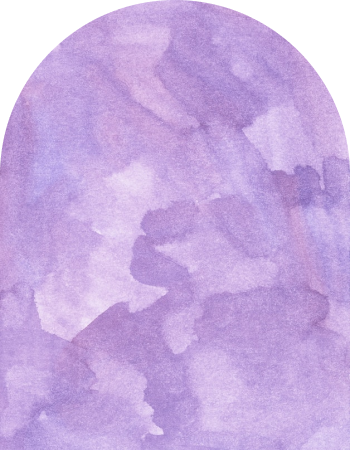
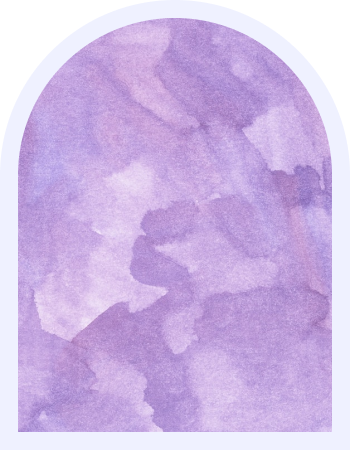
2022-12-01

Changed region(s): [[0.0, 0.0, 1.0, 1.0]]

diff --git a/assets/css/main.css b/assets/css/main.css
@@ -44,16 +44,18 @@
 /* about */
 #section__02 {
     padding-top: 245px;
+    width: 100%;
+    height: 2100px;
 }
 
 .title__section02 {
-    display: flex;
     width: 70%;
 }
 
 .text__box {
     width: 60%;
     padding-left: 40px;
+    padding-bottom: 30px;
 }
 
 .title__section02 .text__box {
@@ -79,31 +81,121 @@
 
 .about__arched {
     position: absolute;
-    top: -350px;
+    top: -320px;
     right: 100px;
+    z-index: 3;
+
 }
 
-.about__arched img {
+.about__arched>img {
     width: 350px;
     height: 450px;
 }
 
 .about__box {
     position: absolute;
+    top: 20px;
+    right: 0;
+    z-index: 2;
 }
 
-.about__box img {
+.about__box>img {
     width: 950px;
     height: 650px;
 }
 
 .about__me {
     position: absolute;
+    width: 750px;
+    height: 950px;
+
+    z-index: 4;
+    top: 480px;
+    right: 520px;
+}
+
+.about__me>img {
     width: 700px;
     height: 950px;
 }
 
-.about__me img {
-    width: 700px;
+.about__me .about__desc {
+    padding-top: 30px;
+    word-break: keep-all;
+    line-height: 26px;
+    color: var(--font-big-color);
+}
+
+.about__back {
+    float: right;
+    margin-top: 230px;
+    width: 1410px;
+    height: 1020px;
+    background-color: #e0e4ff;
+}
+
+/* cat */
+#section__03 {
+    padding-top: 230px;
+
+    width: 100%;
+    height: 2020px;
+}
+
+#section__03 .text__box {
+    width: 60%;
+    font-family: var(--font-big-ligth);
+    font-size: 5rem;
+    white-space: nowrap;
+    text-transform: uppercase;
+    color: var(--font-big-color);
+}
+
+#section__03 .text__box .bottom em {
+    font-family: var(--font-small);
+    font-size: 18px;
+}
+
+.cat__side {
+    position: relative;
+
+}
+
+.cat__img {
+    position: absolute;
+    top: 10px;
+    right: 0;
+    z-index: 3;
+}
+
+.cat__img>img {
+    width: 1000px;
+
+}
+
+.cat__back {
+    position: absolute;
+    top: 290px;
+    right: 0;
+}
+
+.cat__back>img {
+    width: 1335px;
+
+}
+
+.about__cat {
+    width: 1400px;
     height: 950px;
+    background-color: #e0e4ff;
+    margin-left: 30px;
+    margin-top: 170px;
+
+    padding-top: 700px;
+    padding-left: 170px;
+}
+
+.about__cat .cat__desc {
+    width: 60%;
+    color: var(--font-big-color);
 }

diff --git a/index.html b/index.html
@@ -51,7 +51,28 @@
                         빠지게 되었습니다. 물론 제 생각만큼 쉬운 길은 아니겠지만, 더더욱 성장하며 개발자 박선혜가 되겠습니다.
                     </div>
                 </span>
-                <span class="about__back"></span>
+                <div class="about__back"></div>
+            </div>
+        </section>
+        <section id="section__03">
+            <div class="text__box">
+                <h2 class="top">my lovely</h2>
+                <h2 class="bottom">cat<em>나의 평생 친구입니다.</em></h2>
+            </div>
+            <div class="cat__side">
+                <span class="cat__img">
+                    <img src="assets/img/about_04.png" alt="">
+                </span>
+                <span class="cat__back">
+                    <img src="assets/img/about_05.png" alt="">
+                </span>
+            </div>
+            <div class="about__cat">
+                <div class="cat__desc">
+                    새로운 일이나, 무엇이든 계기를 만들어주는 저의 소중한 가족입니다. <br>
+                    물론 집에서 가끔 방해를 하긴 하지만 공부할 때에 곁에 있어주는 기특한 아이입니다. <br>
+                    저를 소개할 때에 빠질 수 없는 존재라 생각해 같이 소개합니다.
+                </div>
             </div>
         </section>
     </main>
